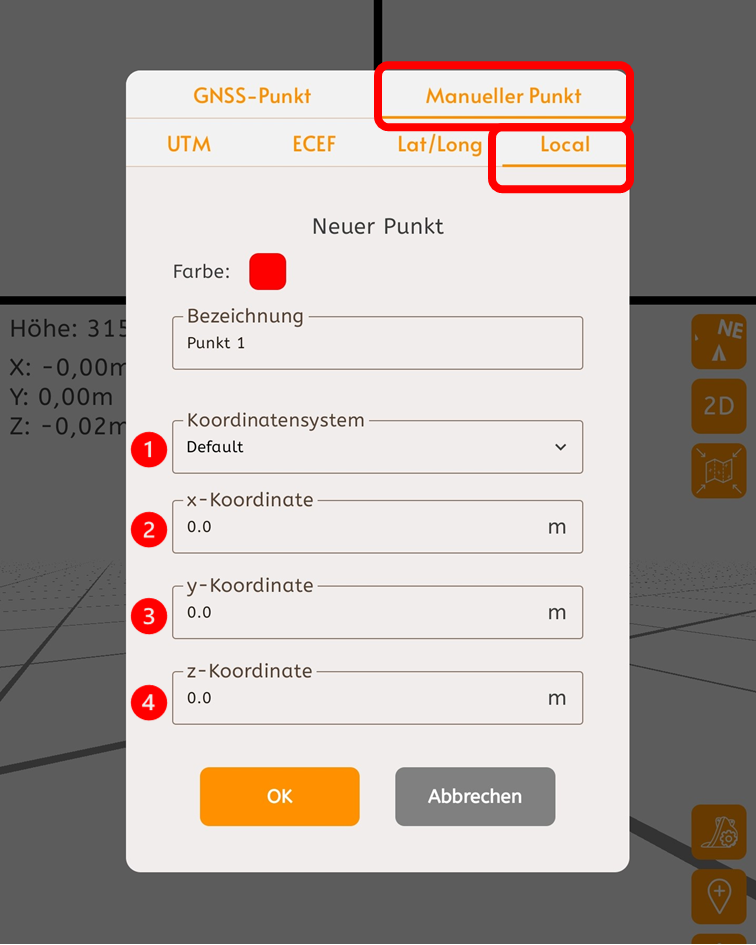
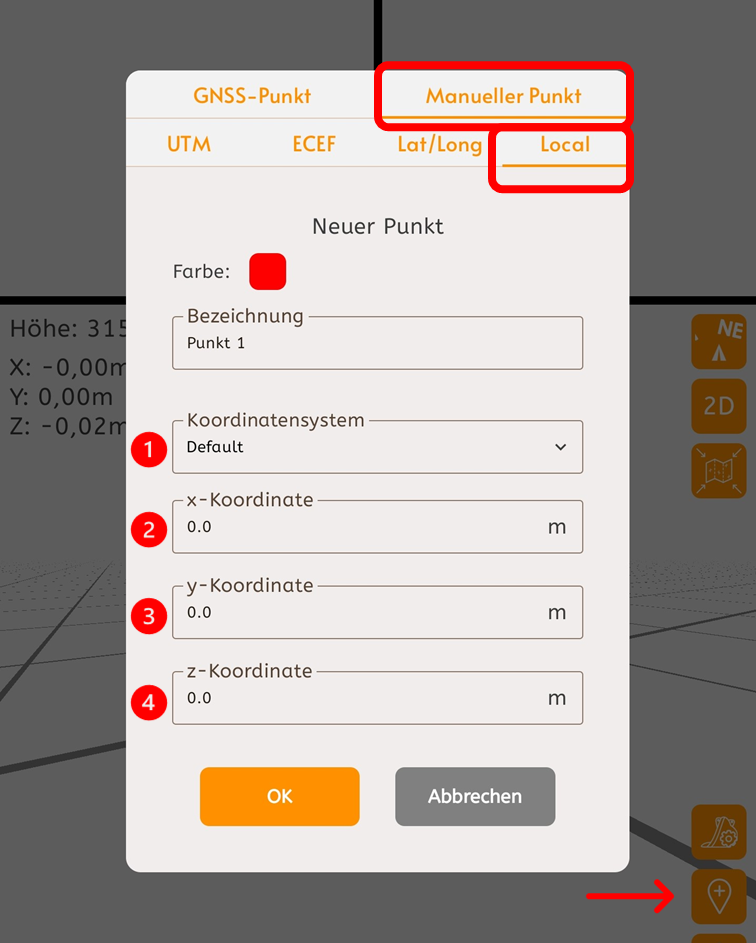
Update20

diff --git a/docs/Punkte/Punkte.md b/docs/Punkte/Punkte.md
@@ -6,6 +6,32 @@
 
 # Punkte
 
+## Auflistung von Referenzpunkt und weiteren Punkten
+
+<p align="center" width="100%">
+  <img width="100%" src="/images_docs/Screenshot (71) - Kopie.png"/>
+</p>
+
+**<span style="color: red; font-weight: bold;">1: &nbsp;</span> Text** - Text 1
+
+**<span style="color: red; font-weight: bold;">2: &nbsp;</span> Text** - Text 2
+
+Text
+
+
+## H2 Titel
+
+<p align="center" width="100%">
+  <img width="100%" src="/images_docs/Screenshot (72) - Kopie.png"/>
+</p>
+
+**<span style="color: red; font-weight: bold;">1: &nbsp;</span> Text** - Text 1
+
+**<span style="color: red; font-weight: bold;">2: &nbsp;</span> Text** - Text 2
+
+Text
+
+
 Diese Seite befindet sich gerade in Bearbeitung.
 
 <!-- <p align="center" width="100%">
